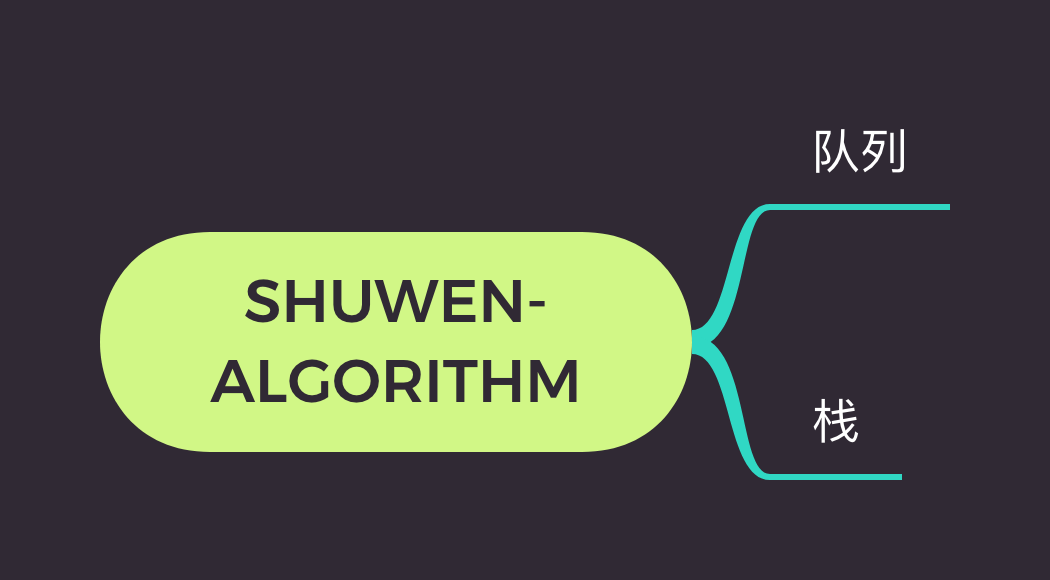
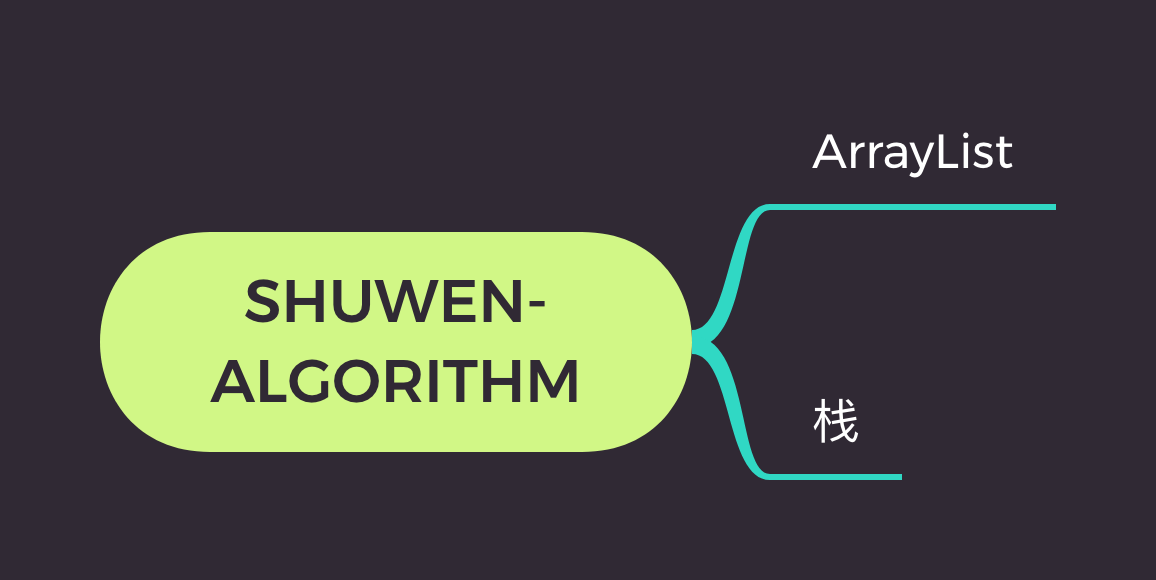
fix: arraylist

diff --git a/1.arraylist/code/arraylist/ArrayList.go b/1.arraylist/code/arraylist/ArrayList.go
@@ -1,0 +1,9 @@
+package arraylist
+
+// List 接口
+type List interface {
+}
+
+// ArrayList 数据结构
+type ArrayList struct {
+}

diff --git a/1.arraylist/code/main.go b/1.arraylist/code/main.go
@@ -1,0 +1,9 @@
+package main
+
+import (
+	"fmt"
+)
+
+func main() {
+	fmt.Println("arraylist")
+}
